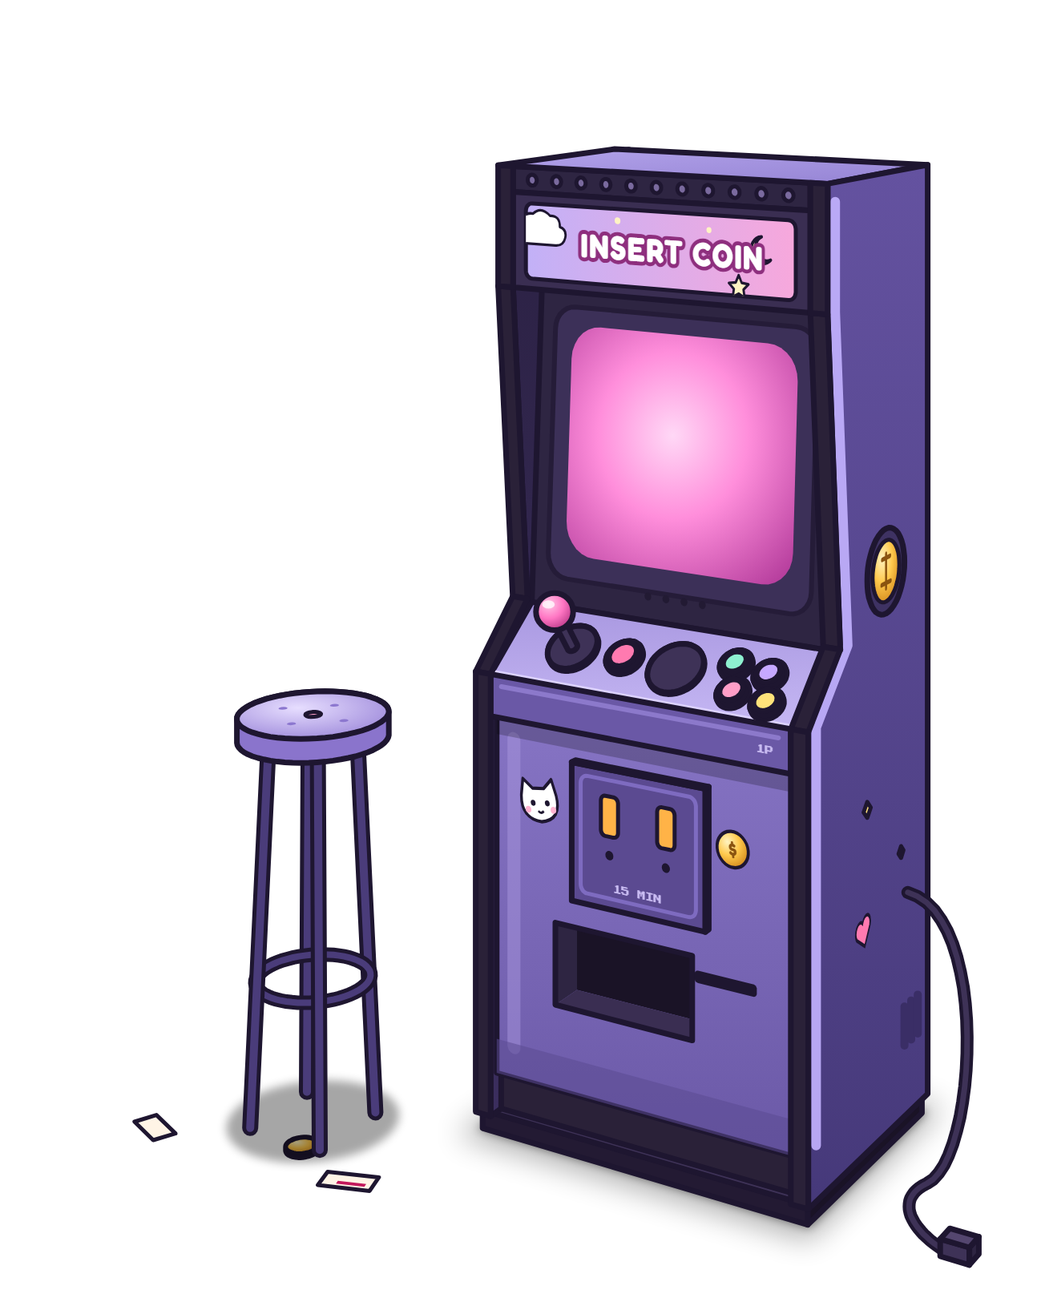
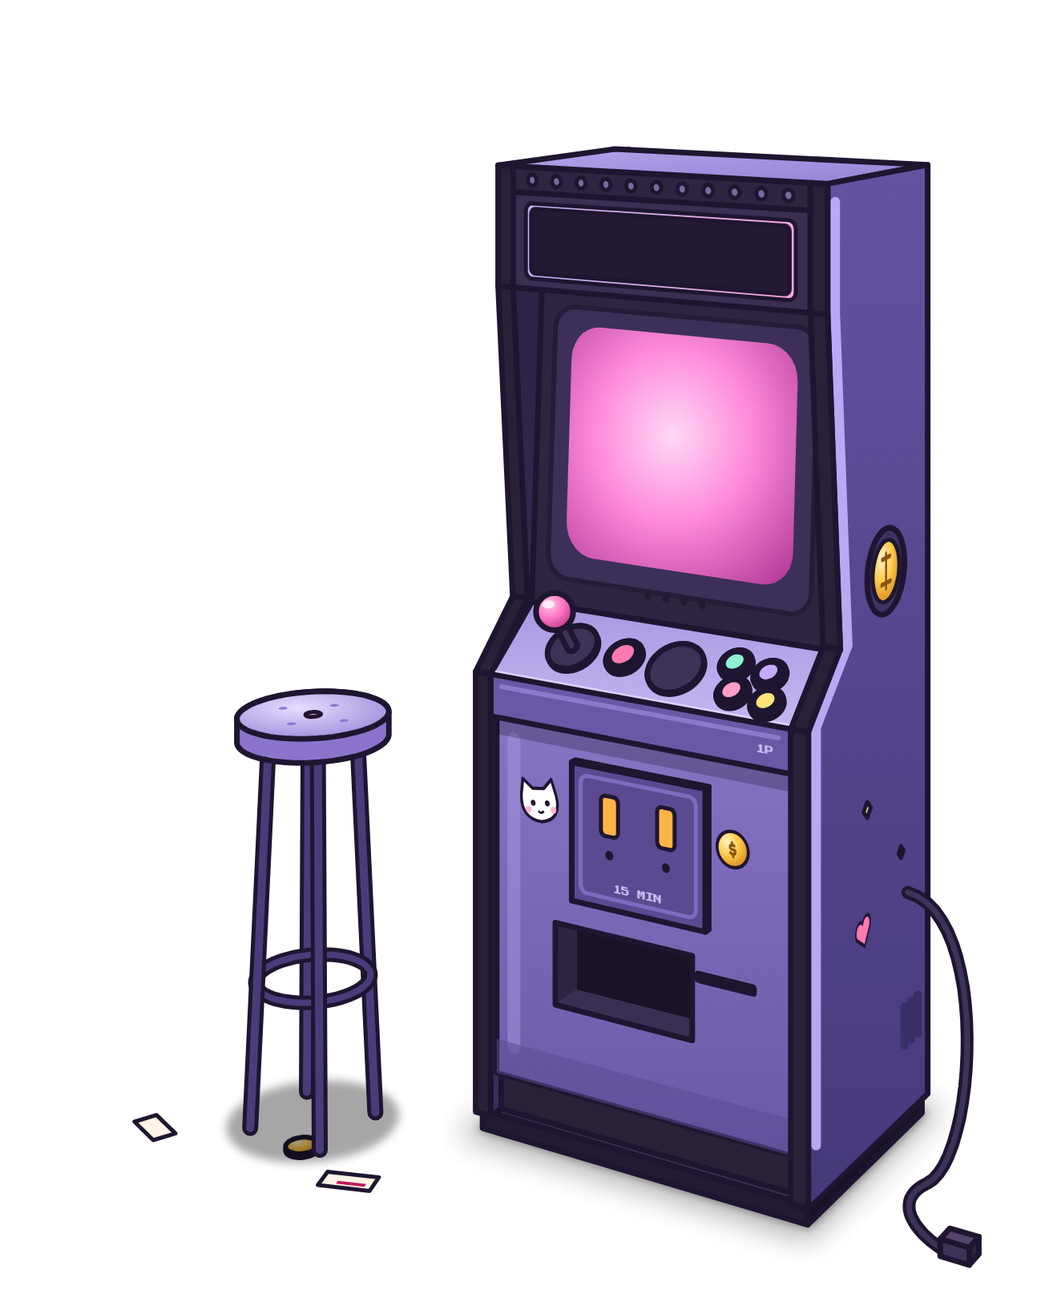
The marquee is a lit pixel display: it reads INSERT COIN, and the name of the CRT's button under the pointer.
The user could tell the CRT's switch icons apart but not their names, shown small in place of the time. The marquee
now lights a board of dots (five-by-seven letters, twelve to a line, in its perspective) on a dark panel the art draws
in the sign: INSERT COIN at rest, the hovered switch's or app's name while the pointer is on it, and a name too long
for it scrolls through from its start. The time stays on the CRT's bar; the bulbs are unchanged.

Dev actions crthover:x:y and marquee:words, and a smoke scenario (marquee) that hovers a switch and an app.

Fixes #109 (a trial the user judges by eye).

Changed region(s): [[0.4946, 0.1555, 0.7728, 0.2488]]

diff --git a/src/InsertCoin.Game/Cabinet/MarqueeDisplay.cs b/src/InsertCoin.Game/Cabinet/MarqueeDisplay.cs
@@ -1,0 +1,111 @@
+using Godot;
+
+namespace InsertCoin.Game.Cabinet;
+
+/// <summary>
+/// The marquee's lit pixel display (the user's choice, 2026-10-22): a board of dots that reads INSERT COIN at rest, and
+/// the name of the CRT's button under the pointer while there is one, in big lit letters that read at a glance on the
+/// smallest cabinet. A name too long for the board scrolls through it, from its start, again and again.
+/// </summary>
+public partial class MarqueeDisplay : Polygon2D
+{
+    public const string AtRest = "INSERT COIN";
+    private const int Columns = 75, Rows = 15, Top = 4;         // twelve letters fit; the art's panel is in this proportion
+    private const double Hold = 0.8, Step = 0.07;               // a long name is read from its start, then moves a column at a time
+    private const int Gap = 12;                                 // the room between the end of a scrolling name and its start again
+
+    private readonly Image _dots = Image.CreateEmpty(Columns, Rows, false, Image.Format.L8);
+    private ImageTexture _texture = null!;
+    private string _text = AtRest;
+    private double _shown;
+    private int _offset = -1;
+
+    public void Build(IReadOnlyList<Vector2> quad)
+    {
+        Polygon = [.. quad];
+        _texture = ImageTexture.CreateFromImage(_dots);
+        var material = new ShaderMaterial { Shader = GD.Load<Shader>("res://Cabinet/marquee_dots.gdshader") };
+        var (r0, r1, r2) = Homography.QuadToUnit(quad);
+        material.SetShaderParameter("inv_h_row0", r0);
+        material.SetShaderParameter("inv_h_row1", r1);
+        material.SetShaderParameter("inv_h_row2", r2);
+        material.SetShaderParameter("grid", new Vector2(Columns, Rows));
+        material.SetShaderParameter("dots", _texture);
+        material.SetShaderParameter("dots_soft", _texture);
+        Material = material;
+        Light(0);
+    }
+
+    /// <summary>What the board reads: a name (shown in capitals), or null for INSERT COIN.</summary>
+    public void Show(string? text)
+    {
+        text = string.IsNullOrWhiteSpace(text) ? AtRest : text.Trim().ToUpperInvariant();
+        if (text == _text)
+            return;
+        _text = text;
+        _shown = 0;
+        _offset = -1;
+        GD.Print($"Marquee: {text}");
+        Light(0);
+    }
+
+    public override void _Process(double delta)
+    {
+        if (Width(_text) <= Columns)
+            return;
+        _shown += delta;
+        Light(_shown < Hold ? 0 : (int)((_shown - Hold) / Step) % (Width(_text) + Gap));
+    }
+
+    private static int Width(string text) => text.Length * 6 - 1;
+
+    /// <summary>Lights the dots for the text, centred when it fits, else from <paramref name="offset"/> columns in.</summary>
+    private void Light(int offset)
+    {
+        if (offset == _offset)
+            return;
+        _offset = offset;
+        _dots.Fill(Colors.Black);
+        var width = Width(_text);
+        var scrolls = width > Columns;
+        for (var column = 0; column < Columns; column++)
+        {
+            var at = scrolls ? (column + offset) % (width + Gap) : column - (Columns - width) / 2;
+            if (at < 0 || at >= width || at % 6 == 5)
+                continue;
+            var glyph = Font.GetValueOrDefault(_text[at / 6], Blank);
+            for (var row = 0; row < 7; row++)
+                if (glyph[row * 5 + at % 6] == '#')
+                    _dots.SetPixel(column, Top + row, Colors.White);
+        }
+        _texture.Update(_dots);
+    }
+
+    // ---- The letters: five dots wide and seven high, as on a dot-matrix sign ----------------------------------------
+    private static readonly string Blank = new('.', 35);
+    private static readonly Dictionary<char, string> Font = new Dictionary<char, string>
+    {
+        ['A'] = ".###. #...# #...# #...# ##### #...# #...#", ['B'] = "####. #...# #...# ####. #...# #...# ####.",
+        ['C'] = ".###. #...# #.... #.... #.... #...# .###.", ['D'] = "###.. #..#. #...# #...# #...# #..#. ###..",
+        ['E'] = "##### #.... #.... ####. #.... #.... #####", ['F'] = "##### #.... #.... ####. #.... #.... #....",
+        ['G'] = ".###. #...# #.... #.### #...# #...# .####", ['H'] = "#...# #...# #...# ##### #...# #...# #...#",
+        ['I'] = ".###. ..#.. ..#.. ..#.. ..#.. ..#.. .###.", ['J'] = "..### ...#. ...#. ...#. ...#. #..#. .##..",
+        ['K'] = "#...# #..#. #.#.. ##... #.#.. #..#. #...#", ['L'] = "#.... #.... #.... #.... #.... #.... #####",
+        ['M'] = "#...# ##.## #.#.# #.#.# #...# #...# #...#", ['N'] = "#...# #...# ##..# #.#.# #..## #...# #...#",
+        ['O'] = ".###. #...# #...# #...# #...# #...# .###.", ['P'] = "####. #...# #...# ####. #.... #.... #....",
+        ['Q'] = ".###. #...# #...# #...# #.#.# #..#. .##.#", ['R'] = "####. #...# #...# ####. #.#.. #..#. #...#",
+        ['S'] = ".#### #.... #.... .###. ....# ....# ####.", ['T'] = "##### ..#.. ..#.. ..#.. ..#.. ..#.. ..#..",
+        ['U'] = "#...# #...# #...# #...# #...# #...# .###.", ['V'] = "#...# #...# #...# #...# #...# .#.#. ..#..",
+        ['W'] = "#...# #...# #...# #.#.# #.#.# #.#.# .#.#.", ['X'] = "#...# #...# .#.#. ..#.. .#.#. #...# #...#",
+        ['Y'] = "#...# #...# #...# .#.#. ..#.. ..#.. ..#..", ['Z'] = "##### ....# ...#. ..#.. .#... #.... #####",
+        ['0'] = ".###. #...# #..## #.#.# ##..# #...# .###.", ['1'] = "..#.. .##.. ..#.. ..#.. ..#.. ..#.. .###.",
+        ['2'] = ".###. #...# ....# ...#. ..#.. .#... #####", ['3'] = "##### ...#. ..#.. ...#. ....# #...# .###.",
+        ['4'] = "...#. ..##. .#.#. #..#. ##### ...#. ...#.", ['5'] = "##### #.... ####. ....# ....# #...# .###.",
+        ['6'] = "..##. .#... #.... ####. #...# #...# .###.", ['7'] = "##### ....# ...#. ..#.. .#... .#... .#...",
+        ['8'] = ".###. #...# #...# .###. #...# #...# .###.", ['9'] = ".###. #...# #...# .#### ....# ...#. .##..",
+        ['-'] = "..... ..... ..... ##### ..... ..... .....", ['.'] = "..... ..... ..... ..... ..... .##.. .##..",
+        ['\''] = ".##.. ..#.. .#... ..... ..... ..... .....", ['!'] = "..#.. ..#.. ..#.. ..#.. ..#.. ..... ..#..",
+        ['?'] = ".###. #...# ....# ...#. ..#.. ..... ..#..", [':'] = "..... .##.. .##.. ..... .##.. .##.. .....",
+        ['/'] = "..... ....# ...#. ..#.. .#... #.... .....", ['&'] = ".##.. #..#. #.#.. .#... #.#.# #..#. .##.#",
+    }.ToDictionary(g => g.Key, g => g.Value.Replace(" ", ""));
+}

diff --git a/src/InsertCoin.Game/App/Crt/CrtOs.cs b/src/InsertCoin.Game/App/Crt/CrtOs.cs
@@ -10,16 +10,16 @@ namespace InsertCoin.Game.App;
 /// out of the cabinet to face the player, large enough to read at any cabinet size; a press anywhere away from it
 /// settles it back, the app closing into its icon. The system closes by itself after a while untouched, or from the
 /// power mark, and the readout unfolds again. Along the home screen's bar, beside the power mark, the quick switches
-/// (Mute sounds, Voice, Conversation): lit when on, a press flips one, and its name shows in place of the time under
-/// the pointer.
+/// (Mute sounds, Voice, Conversation): lit when on, a press flips one. The name of a switch or an app under the pointer
+/// lights up on the marquee, big enough to read on any cabinet (see Cabinet.MarqueeDisplay).
 /// </summary>
 public partial class CrtOs : Node
 {
     private enum State { Closed, Moving, Home, App }
 
     /// <summary>
-    /// A quick switch on the home screen's bar: its name (shown under the pointer), whether it is on, flipping it, and
-    /// its picture (drawn at a centre, given whether it is on and the colour).
+    /// A quick switch on the home screen's bar: its name (lit on the marquee under the pointer), whether it is on,
+    /// flipping it, and its picture (drawn at a centre, given whether it is on and the colour).
     /// </summary>
     public sealed record Switch(string Name, Func<bool> On, Action<bool> Set, Action<CanvasItem, Vector2, bool, Color> Glyph);
 
@@ -327,14 +327,23 @@ public partial class CrtOs : Node
     /// <summary>The pointer moved over the cabinet (null: off it).</summary>
     public void Hover(Vector2? canvasPoint)
     {
-        var at = canvasPoint is { } p ? _screen.ScreenPoint(p) : null;
+        var at = _devPointer ?? (canvasPoint is { } p ? _screen.ScreenPoint(p) : null);
         if (at is not null && _state != State.Closed)
             _untouched = 0;
         _hovered = _state == State.Home && at is { } h ? _home.AppAt(h) ?? -1 : -1;
         _switchHovered = _state == State.Home && at is { } s ? SwitchAt(s) ?? -1 : -1;
         if (_state == State.App && _open is { } app)
             app.Hover(at is { } a ? a - app.Position : null);
+        Pointing?.Invoke(_switchHovered >= 0 ? _switches[_switchHovered].Name : _hovered >= 0 && _hovered < _apps.Count ? _apps[_hovered].Label : null);
     }
+
+    /// <summary>The name of the button under the pointer on the home screen (a switch or an app), or null: shown on the marquee.</summary>
+    public Action<string?>? Pointing { get; set; }
+
+    private Vector2? _devPointer;
+
+    /// <summary>Dev: a pretend pointer resting on the screen at a point in its own pixels, or none.</summary>
+    public void DevHover(Vector2? at) => _devPointer = at;
 
     /// <summary>A press on the screen while the system is open is the system's (to swipe, or to move an app), not a drag of the window.</summary>
     public bool Grabs(Vector2 canvasPoint) => _state is State.Home or State.App && _screen.Hits(canvasPoint);
@@ -621,8 +630,8 @@ public partial class CrtOs : Node
     }
 
     /// <summary>
-    /// The bar along the top: on the home screen the time (or the name of the switch under the pointer), the quick
-    /// switches and the power mark; back and the app's name in an app.
+    /// The bar along the top: on the home screen the time, the quick switches and the power mark; back and the app's
+    /// name in an app.
     /// </summary>
     private partial class BarView(CrtOs os) : Control
     {
@@ -649,11 +658,7 @@ public partial class CrtOs : Node
             }
             else
             {
-                if (os._switchHovered >= 0 && os._switchHovered < os._switches.Count)
-                    DrawString(Pixel, new Vector2(22, 34), os._switches[os._switchHovered].Name, HorizontalAlignment.Left,
-                               os.SwitchCentre(0).X - SwitchRadius - 30, 12, Accent);
-                else
-                    DrawString(Pixel, new Vector2(30, 37), DateTime.Now.ToString("HH:mm"), HorizontalAlignment.Left, -1, 17, Ink);
+                DrawString(Pixel, new Vector2(30, 37), DateTime.Now.ToString("HH:mm"), HorizontalAlignment.Left, -1, 17, Ink);
                 for (var i = 0; i < os._switches.Count; i++)
                 {
                     var (centre, on) = (os.SwitchCentre(i), os._switches[i].On());

diff --git a/tools/art/cozy_cabinet.py b/tools/art/cozy_cabinet.py
@@ -283,6 +283,9 @@ def screen_face():
 
 
 BULBS = [18 + i * 22.4 for i in range(11)]      # hood-local x of each marquee bulb
+# The marquee's lit pixel display, in marquee-local units (x, y, width, height): the game lights its dots (INSERT COIN,
+# or the name of the CRT's button under the pointer), so the art draws only its dark panel, in the dots' proportion (75 x 15).
+DISPLAY = (20, 15, 220, 44)
 
 
 def marquee_face():
@@ -290,21 +293,15 @@ def marquee_face():
     dim = "".join(path(on(hood, circle(x, 10, 4.2, 18)), "#7A6A9E", THIN) for x in BULBS)
     lit = "".join(path(on(hood, circle(x, 10, 4.2, 18)), "#FFE27A", THIN) for x in BULBS[::2])
     sign = rrect(12, 8, W - 24, L - 16, 6)
-    doodles = f"""<g stroke="{OUT}" stroke-linejoin="round">
-      <path transform="translate(-118 2) scale(0.78) translate(112 -20)" d="M-112 20 q-12 0 -12 -10 q0 -10 11 -10 q3 -10 14 -9 q9 -8 19 1 q11 -1 11 10 q8 2 6 10 q-2 8 -11 8 z" fill="#FFFFFF" stroke-width="2.5"/>
-      <path d="M92 -16 a10 10 0 1 0 8 17 a8 8 0 1 1 -8 -17 z" fill="#FFF3C4" stroke-width="2.5"/>
-      <path d="M72 14 l2.6 5.6 6 .8 -4.4 4.2 1 6 -5.2 -2.8 -5.2 2.8 1 -6 -4.4 -4.2 6 -.8 z" fill="#FFF3C4" stroke-width="2"/>
-      <circle cx="-34" cy="-20" r="2.5" fill="#FFF3C4" stroke="none"/><circle cx="46" cy="-18" r="2.2" fill="#FFF3C4" stroke="none"/>
-    </g>
-    <text x="14" y="9" text-anchor="middle" font-family="{ROUND}" font-size="25"
-          font-weight="700" fill="#FFFFFF" stroke="#8E2F7E" stroke-width="6" paint-order="stroke" letter-spacing="1.5">INSERT COIN</text>"""
-    glow = path(on(marquee, rrect(30, 16, W - 60, L - 32, 10)), "#FFD0F2", 'opacity="0.55" filter="url(#softGlow)"')
+    x, y, w, h = DISPLAY
+    panel = path(on(marquee, rrect(x - 3, y - 3, w + 6, h + 6, 4)), "#221A33", THIN)
+    glow = path(on(marquee, rrect(x + 10, y + 4, w - 20, h - 8, 8)), "#FF8EDB", 'opacity="0.3" filter="url(#softGlow)"')
     return f"""<g id="marquee">
   {face(hood, "#2E2542")}{dim}{layer("bulbs", lit)}
   {face(marquee, "#3A2E52")}
   {path(on(marquee, sign), "url(#sign)", THIN)}
+  {panel}
   {clip("signClip", on(marquee, sign))}
-  <g clip-path="url(#signClip)">{marquee.decal(W / 2, L / 2, f'<g transform="translate({W / 2} {L / 2})">{doodles}</g>')}</g>
   {layer("marquee-glow", f'<g clip-path="url(#signClip)">{glow}</g>')}
 </g>"""
 
@@ -670,6 +667,7 @@ def export_skin(art_dir, skin_dir, render=True):
     pressed = sub(CAM(sub(cap_centre, mul(cp_top.n, 4))), CAM(cap_centre))
     door = Plane((-XI + 72, BODY_TOP[1] - 24, BODY_TOP[0] - 5), (1, 0, 0), (0, -1, 0), 104)
     stack = sub(CAM(add(centre, (0, 3, 0))), CAM(centre))
+    dx, dy, dw, dh = DISPLAY
     skin = {
         "id": "cozy", "name": "Cozy", "scale": SCALE, "canvas": [width, height],
         "layers": {n: f"{n}.png" for n in ["base"] + LAYERS},
@@ -685,7 +683,8 @@ def export_skin(art_dir, skin_dir, render=True):
             "printer": {"slot": pts2(on(body, [(176, 160), (228, 160), (228, 169), (176, 169)])), "ticket": pt(top_mid),
                         # paper path for the session receipt: a strip hanging from the slot (TL, TR, BR, BL) and its size
                         "receipt": pts2(on(body, [(179, 166), (225, 166), (225, 268), (179, 268)])), "receiptSize": [46, 102]},
-            "marquee": pts2(on(marquee, [(12, 8), (W - 12, 8), (W - 12, marquee.length - 8), (12, marquee.length - 8)])),
+            # the marquee's pixel display (TL, TR, BR, BL), where the game lights its dots
+            "marquee": pts2(on(marquee, [(dx, dy), (dx + dw, dy), (dx + dw, dy + dh), (dx, dy + dh)])),
             # memos stuck on the right side panel: the panel's local rectangle and where its corners fall (TL, TR, BR, BL),
             # the area a memo's centre may be in, spots for the Pin button (a, b, tilt), and a memo's paper and tape
             "memos": {"side": pts2(on(right_side, [(0, 0), (SIDE_SIZE[0], 0), SIDE_SIZE, (0, SIDE_SIZE[1])])),

diff --git a/src/InsertCoin.Game/Main.cs b/src/InsertCoin.Game/Main.cs
@@ -48,6 +48,7 @@ public partial class Main : Node2D
     private AlertTicket _ticket = null!;
     private MusicApp _musicApp = null!;
     private CrtOs _crt = null!;
+    private string? _devMarquee;
     private object? _carrier;                               // what a pull on the cabinet is carrying: a memo, or the screen's system
     private Reminders _reminders = null!;
     private KeyStore _elsewhereKeys = null!;                // where reminders go besides the cabinet: addresses and tokens, encrypted
@@ -172,6 +173,7 @@ public partial class Main : Node2D
                     new CrtOs.Switch("VOICE", () => _settings.Voice, _stool.SetVoice, CrtOs.Speech),
                     new CrtOs.Switch("CONVERSATION", () => _stool.Conversing, _stool.Converse, CrtOs.Microphone)],
                    () => _window.WindowScale, _cabinet.Skin.Canvas);
+        _crt.Pointing = name => _cabinet.Marquee.Show(name ?? _devMarquee);        // the button under the pointer, lit on the marquee
         // a focus session counts down on the readout; what she would say in a full-screen game comes as a ticket
         _stool.Focus.Changed += () => _cabinet.Screen.Focus = _stool.Focus.Readout();
         _stool.Notice += (title, line) => _ticket.Show(title, line, 10);
@@ -576,7 +578,13 @@ public partial class Main : Node2D
                 case "crtmove": _crt.DevMove(int.Parse(parts[1]), int.Parse(parts[2])); break;                        // crtmove:0:1 moves an app, as carrying it would
                 case "crtclose": _crt.Close(); break;
                 case "crtaway": _crt.Away(); break;                                                                   // a press away from the lifted screen
+                case "crthover": _crt.DevHover(parts.Length > 2 ? new Vector2(float.Parse(parts[1]), float.Parse(parts[2])) : null); break;   // crthover:x:y rests a pretend pointer there; crthover:off
             }
+            return;
+        }
+        if (action.StartsWith("marquee:"))
+        {
+            _devMarquee = action["marquee:".Length..].Replace('_', ' ') is var text and not "off" ? text : null;      // marquee:words lit on the marquee at rest; marquee:off
             return;
         }
         if (action == "settings" || action.StartsWith("settings:"))

diff --git a/src/InsertCoin.Game/Cabinet/CabinetView.cs b/src/InsertCoin.Game/Cabinet/CabinetView.cs
@@ -4,7 +4,7 @@ using InsertCoin.Game.Skins;
 namespace InsertCoin.Game.Cabinet;
 
 /// <summary>
-/// The whole cabinet, assembled from a skin: base art, live screen, glass, glows, lights, coins, printer, memos, CHECK button.
+/// The whole cabinet, assembled from a skin: base art, live screen, glass, glows, the marquee's display, lights, coins, printer, memos, CHECK button.
 /// Knows nothing about rules; the app tells it what to show and plays its moments.
 /// </summary>
 public partial class CabinetView : Node2D
@@ -14,6 +14,7 @@ public partial class CabinetView : Node2D
     public CabinetSkin Skin { get; private set; } = null!;
     public ScreenView Screen { get; private set; } = null!;
     public MarqueeLights Lights { get; private set; } = null!;
+    public MarqueeDisplay Marquee { get; private set; } = null!;
     public CoinTray Tray { get; private set; } = null!;
     public Printer Printer { get; private set; } = null!;
     public Receipt Receipt { get; private set; } = null!;
@@ -37,6 +38,9 @@ public partial class CabinetView : Node2D
         _slotGlow = AddLayer("slot-glow", add);
         _checkCap = AddLayer("check-cap");
 
+        Marquee = new MarqueeDisplay();
+        AddChild(Marquee);
+        Marquee.Build(skin.Anchors.Marquee);
         Lights = new MarqueeLights();
         AddChild(Lights);
         Lights.Build(skin.Anchors.Bulbs);

diff --git a/src/InsertCoin.Game/skins/CabinetSkin.cs b/src/InsertCoin.Game/skins/CabinetSkin.cs
@@ -111,7 +111,7 @@ public sealed class SkinAnchors
     public required Vector2 TicketOrigin { get; init; }
     public required Vector2[] ReceiptQuad { get; init; }          // TL, TR, BR, BL of the paper hanging from the slot
     public required Vector2 ReceiptSize { get; init; }
-    public required Vector2[] Marquee { get; init; }
+    public required Vector2[] Marquee { get; init; }              // TL, TR, BR, BL of the marquee's pixel display
     public required MemoSide? Memos { get; init; }                // where memos are stuck on the cabinet; none for a skin without
 }
 

diff --git a/docs/specs/2026-10-17-on-the-cabinet.md b/docs/specs/2026-10-17-on-the-cabinet.md
@@ -59,9 +59,24 @@ does nothing yet, and right-clicking the character for its menu is a habit deskt
 - **The switches** (`CrtOs.Switch`): three round toggles on the home screen's bar, between the time and the power
   mark: a speaker (crossed out while muted), a speech bubble (Voice) and a microphone (Conversation), filled pink when
   on. Icons only, at every cabinet size: three labelled toggles don't fit the bar beside the time and the power mark,
-  and at the smallest cabinet their labels would be too small to read. The name of the one under the pointer shows in
-  place of the time. Each reads its state where the tray's comes from (the settings, the conversation) every frame
+  and at the smallest cabinet their labels would be too small to read. The name of the one under the pointer showed
+  in place of the time until #109 put it on the marquee (below). Each reads its state where the tray's comes from (the settings, the conversation) every frame
   the bar is drawn, and flips it through the same calls as the tray, so a change anywhere shows everywhere.
+
+## Built: names on the marquee (2026-10-22, #109)
+
+The user, trying the switches: "i can tell the icon apart, but not the text, i would suggest we display the hovered
+button text on the insert coin bar above the crt. maybe make it a pixel screen", then choosing a lit pixel display
+("let's try a lit pixel display and see how it goes"): a trial, judged by eye.
+
+- **The marquee is a lit pixel display** (`Cabinet/MarqueeDisplay.cs`, `marquee_dots.gdshader`): the art draws a dark
+  panel in the sign (`tools/art/cozy_cabinet.py`, `DISPLAY`; the skin's `marquee` anchor is its corners), and the game
+  lights a board of 75 by 15 round dots on it, in the marquee's perspective. Letters are five dots by seven, as on a
+  dot-matrix sign; twelve fit. Dots too small to tell apart (the small cabinet) run together into solid letters.
+- **INSERT COIN at rest; the name of the CRT's button under the pointer** (a quick switch, an app, SETTINGS) while
+  there is one, and INSERT COIN again when it leaves. Only those buttons, not other hover tips (the PM's choice). A
+  name too long for the board shows its start, then scrolls through a column at a time, round and round.
+- **The time stays on the CRT's bar** whatever is under the pointer. The bulbs above (`MarqueeLights`) are unchanged.
 
 ## Open
 - **A right-click while a card by her stool waits,** or while she speaks: the menu still opens; whether it should close

diff --git a/docs/README.md b/docs/README.md
@@ -2,7 +2,7 @@
 
 A guide to every feature and setting, for players and the curious. Your companion is whoever sits on the stool:
 Shino, Fumiriya, or a character of your own. The code still goes by its working name, INSERT COIN (the cabinet's
-marquee keeps it too). Building, running and testing it: [src/README.md](../src/README.md) and
+marquee keeps it too, in lit pixels). Building, running and testing it: [src/README.md](../src/README.md) and
 [tools/dev/README.md](../tools/dev/README.md).
 
 ## The cabinet, Settings and the first run
@@ -13,7 +13,8 @@ moving while it is open): the cabinet, Settings…, Getting started… (until it
 history, a memo of your own, a LeetCode check, and the switches flipped often (Mute sounds, Voice, Conversation). A
 click on the cabinet's screen opens its small system: apps on a home screen, four to a page (swipe between pages; hold
 one to move it), SETTINGS last, which opens Settings as the tray does; along its top bar the same three switches, lit
-when on, a click flipping one (the pointer over one shows its name in place of the time). Settings is one window with a page
+when on, a click flipping one. The name of the switch or app under the pointer lights up on the marquee above the
+screen, which reads INSERT COIN the rest of the time (a name too long for it scrolls through). Settings is one window with a page
 for each thing, listed down its left side: Getting started; under your companion's name, Mind, Voice, Talking aloud,
 Characters, Abilities, Privacy, Skills and Add-ons; under Your day, Reminders, Check-ins, Your phone, Calendars and Balance;
 under The cabinet, Cabinet and Usage. Each is saved as you change it; only the provider waits for its Save.

diff --git a/tools/dev/README.md b/tools/dev/README.md
@@ -107,7 +107,9 @@ by hand to that spot on the side; `memocarry` alone, off the cabinet), `memoshee
 system opens; `crt:memos` an app too; `crt:settings` opens Settings, as its icon does), `crtclick:x:y` (a click on the
 screen, in its own pixels; on the home screen's bar the switches are at 210, 260 and 310 across, 27 down: Mute sounds,
 Voice, Conversation, each flip logged as `Crt: VOICE off`), `crtmove:0:1` (an app
-moved, as holding and carrying it would), `crtaway` (a press away from the lifted screen), `crtclose` and
+moved, as holding and carrying it would), `crtaway` (a press away from the lifted screen), `crthover:x:y` (a pretend pointer resting on the screen there, in its
+own pixels: its button's name lights on the marquee, logged as `Marquee: VOICE`; `crthover:off`), `marquee:words` (the
+marquee reads those words instead of INSERT COIN, to see a long name scroll; `marquee:off`), `crtclose` and
 `memorybook:memos`. Focus and music: `focus` (a session started from the screen; `focus:skip`, `focus:pause`,
 `focus:resume`, `focus:stop`), `focustool:start:50` (as their tool would), `standup` (they suggest standing up, as after a
 long sitting), `musicfake:Title:Artist` (pretends a music app plays; `musicfake:off`), `musiclink:<link>` (as if pasted
